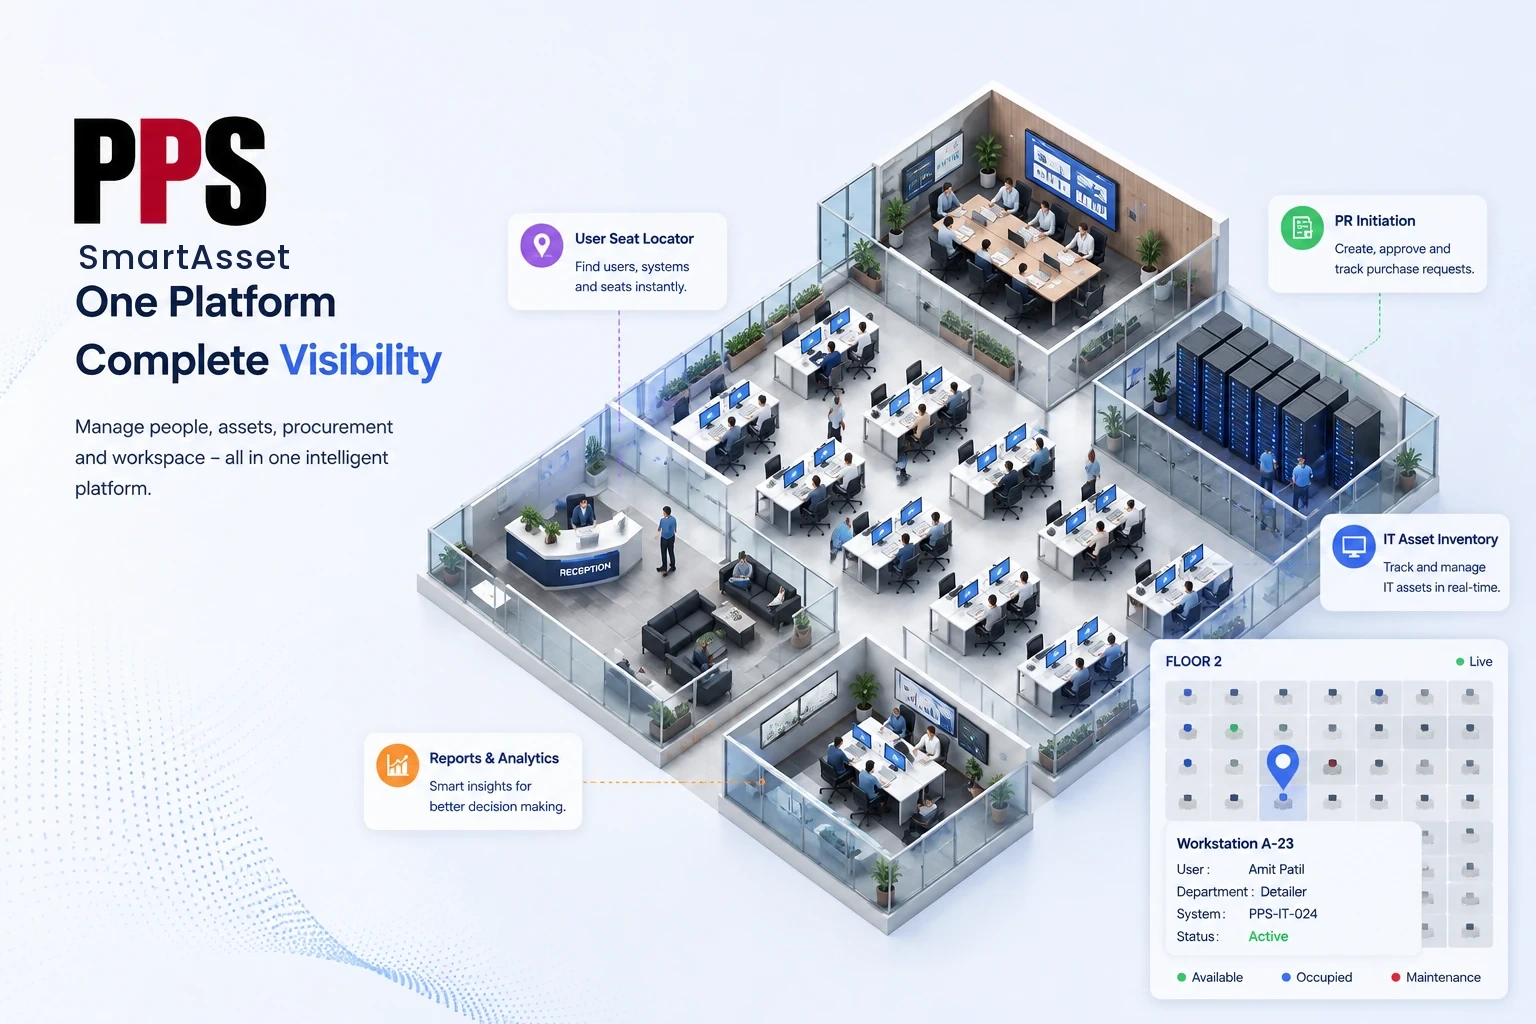
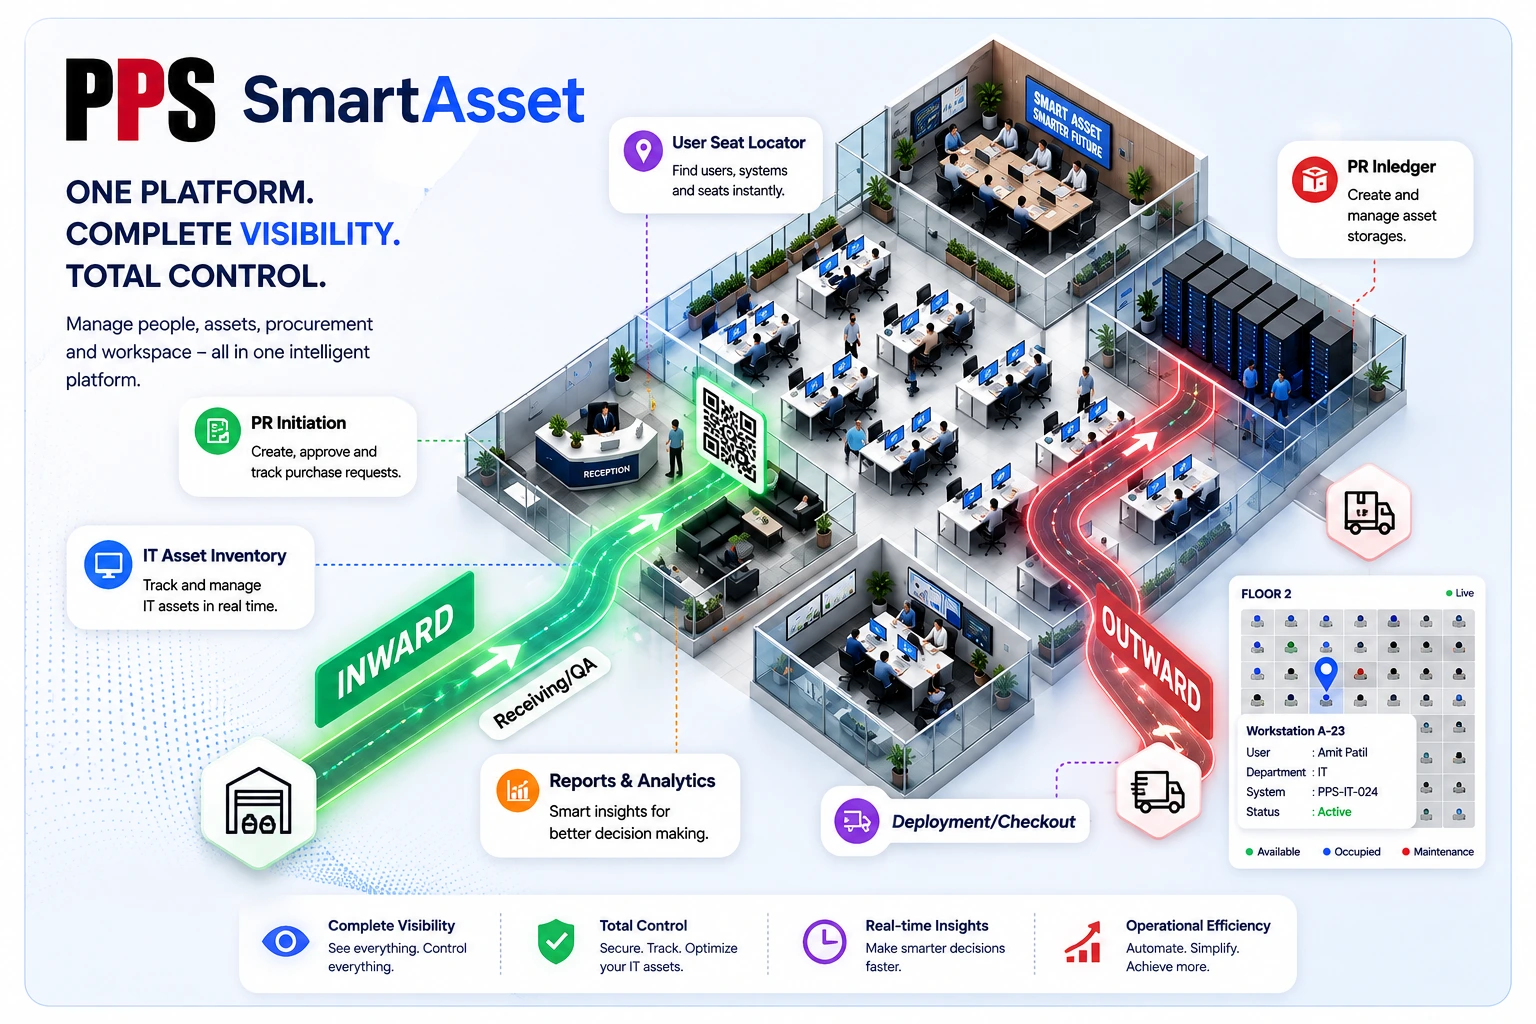
Replace login hero artwork with the full "PPS SmartAsset" reference design
Swap in the complete reference banner (PPS SmartAsset wordmark, "One
Platform. Complete Visibility. Total Control." headline, and the fuller
badge set: User Seat Locator, PR Initiation, IT Asset Inventory,
Reports & Analytics, PR Inledger, Deployment/Checkout, plus the
inward/outward flow graphic) in place of the earlier illustration and
its manually-added "SmartAsset" text label.

The new artwork weaves the badges through the same vertical band as
the headline/subtitle, so unlike the old asset there's no clean
illustration-only region to crop for the mobile variant once the PPS
wordmark is removed - the mobile crop (login-hero-mobile.webp) now
carries its own baked-in headline/subtitle text. Removed the separate
HTML headline block that login-page.tsx used to render only on mobile,
since it would now just repeat what the image already shows; the
mobile layout keeps only the small standalone BrandHeader mark next to
the form, matching how desktop already avoids repeating the message
twice.

diff --git a/frontend/app/pages/login/components/hero-visual.tsx b/frontend/app/pages/login/components/hero-visual.tsx
@@ -11,23 +11,28 @@ interface HeroVisualProps {
 }
 
 // - "full" serves frontend/public/login-hero.webp, the complete banner
-//   the user supplied. It already bakes in the PPS logo, the
-//   "One Platform / Complete Visibility" headline and subtitle, and the
-//   office/seat-locator illustration with feature badges and the
-//   floor-map widget. Because all of that branding and copy now lives
-//   inside the artwork itself, the separate BrandHeader/headline block
-//   that used to sit next to the form was dropped from the desktop
-//   layout in login-page.tsx (kept only for mobile - see there) to
-//   avoid showing the same message twice.
+//   the user supplied. It already bakes in the "PPS SmartAsset"
+//   wordmark, the "One Platform. Complete Visibility. Total Control."
+//   headline and subtitle, and the office/seat-locator illustration
+//   with feature badges (User Seat Locator, PR Initiation, IT Asset
+//   Inventory, Reports & Analytics, PR Inledger, Deployment/Checkout),
+//   the inward/outward flow graphic and the floor-map widget. Because
+//   all of that branding and copy now lives inside the artwork itself,
+//   the separate BrandHeader/headline block that used to sit next to
+//   the form was dropped from the desktop layout in login-page.tsx
+//   (kept only as a small repeat mark - see there) to avoid showing
+//   the same message twice.
 //
 // - "minimal" serves frontend/public/login-hero-mobile.webp, a crop of
-//   the same source image with the logo/headline/subtitle portion cut
-//   away, keeping only the illustration + badges + floor-map widget.
-//   The full banner's baked-in text is sized for a ~700-900px-wide
-//   desktop panel; scaled down to phone width it would become
-//   illegibly small, so mobile instead pairs this illustration-only
-//   crop with the small standalone BrandHeader mark and real,
-//   independently-sized headline text.
+//   the same source image with just the "PPS SmartAsset" wordmark cut
+//   off the top. Unlike the previous artwork, this one weaves the
+//   feature badges through the same vertical band as the headline/
+//   subtitle text, so there's no clean illustration-only region left
+//   to crop to once the wordmark is removed - the headline/subtitle
+//   comes along with it. login-page.tsx's mobile layout no longer
+//   renders a separate HTML headline for that reason (it would just
+//   repeat what's now baked into this crop); it keeps only the small
+//   standalone BrandHeader mark next to the form.
 export function HeroVisual({ variant = 'full', className }: HeroVisualProps) {
   const minimal = variant === 'minimal';
 

diff --git a/frontend/app/pages/login/login-page.tsx b/frontend/app/pages/login/login-page.tsx
@@ -81,29 +81,12 @@ export default function LoginPage() {
               repeat mark right next to the form is standard practice
               for split-screen login pages (keeps the form panel
               self-identifying even if the hero side scrolls out of view
-              on a short viewport). On mobile it's the only branding,
-              since the mobile hero crop below has its text cut off. */}
+              on a short viewport). On mobile it's a repeat mark too -
+              the illustration below now bakes in its own headline/
+              subtitle text (see HeroVisual's "minimal" comment), so
+              there's no separate HTML headline here any more. */}
           <div className="animate-in fade-in-0 duration-500 fill-mode-both">
             <BrandHeader compact />
-          </div>
-
-          {/* Headline/subtitle - mobile only. The full hero banner
-              shown from md up already bakes this exact message into
-              the image, so repeating it as text there would just show
-              it twice. Below md, the banner is swapped for the
-              illustration-only crop (its baked-in text would be
-              illegible at phone width), so the message needs to exist
-              here as real, independently-sized text instead. */}
-          <div className="animate-in fade-in-0 duration-500 fill-mode-both [animation-delay:80ms] md:hidden">
-            <h2 className="text-xl font-bold tracking-tight text-foreground sm:text-2xl">
-              One Platform,{" "}
-              <span className="text-primary">Complete Visibility</span>
-            </h2>
-
-            <p className="mt-1.5 max-w-sm text-sm text-muted-foreground">
-              Manage people, assets, procurement and workspace — all in
-              one intelligent platform.
-            </p>
           </div>
 
           <div className="animate-in fade-in-0 slide-in-from-bottom-4 duration-500 fill-mode-both [animation-delay:120ms]">
